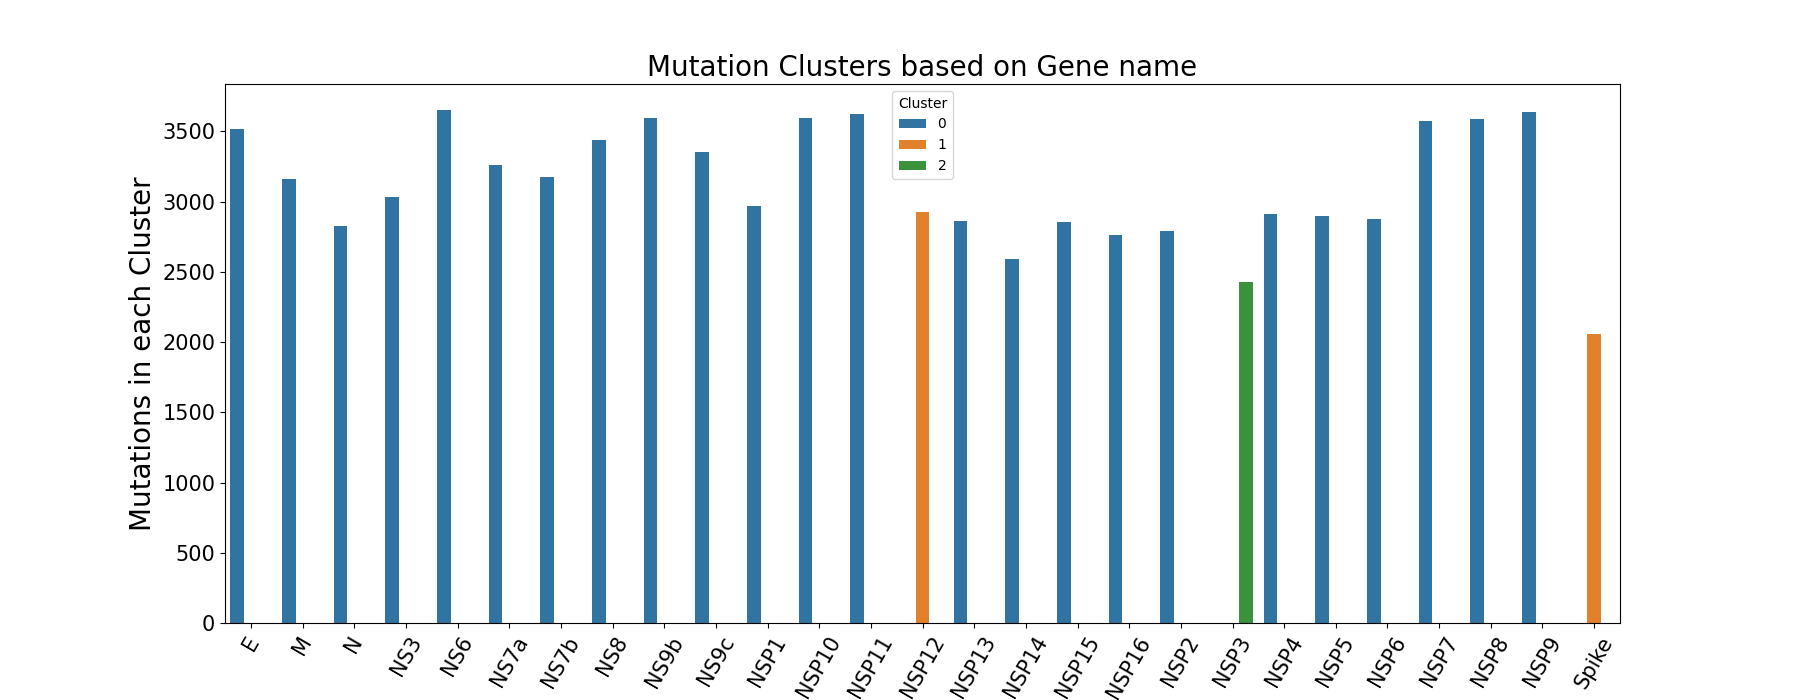
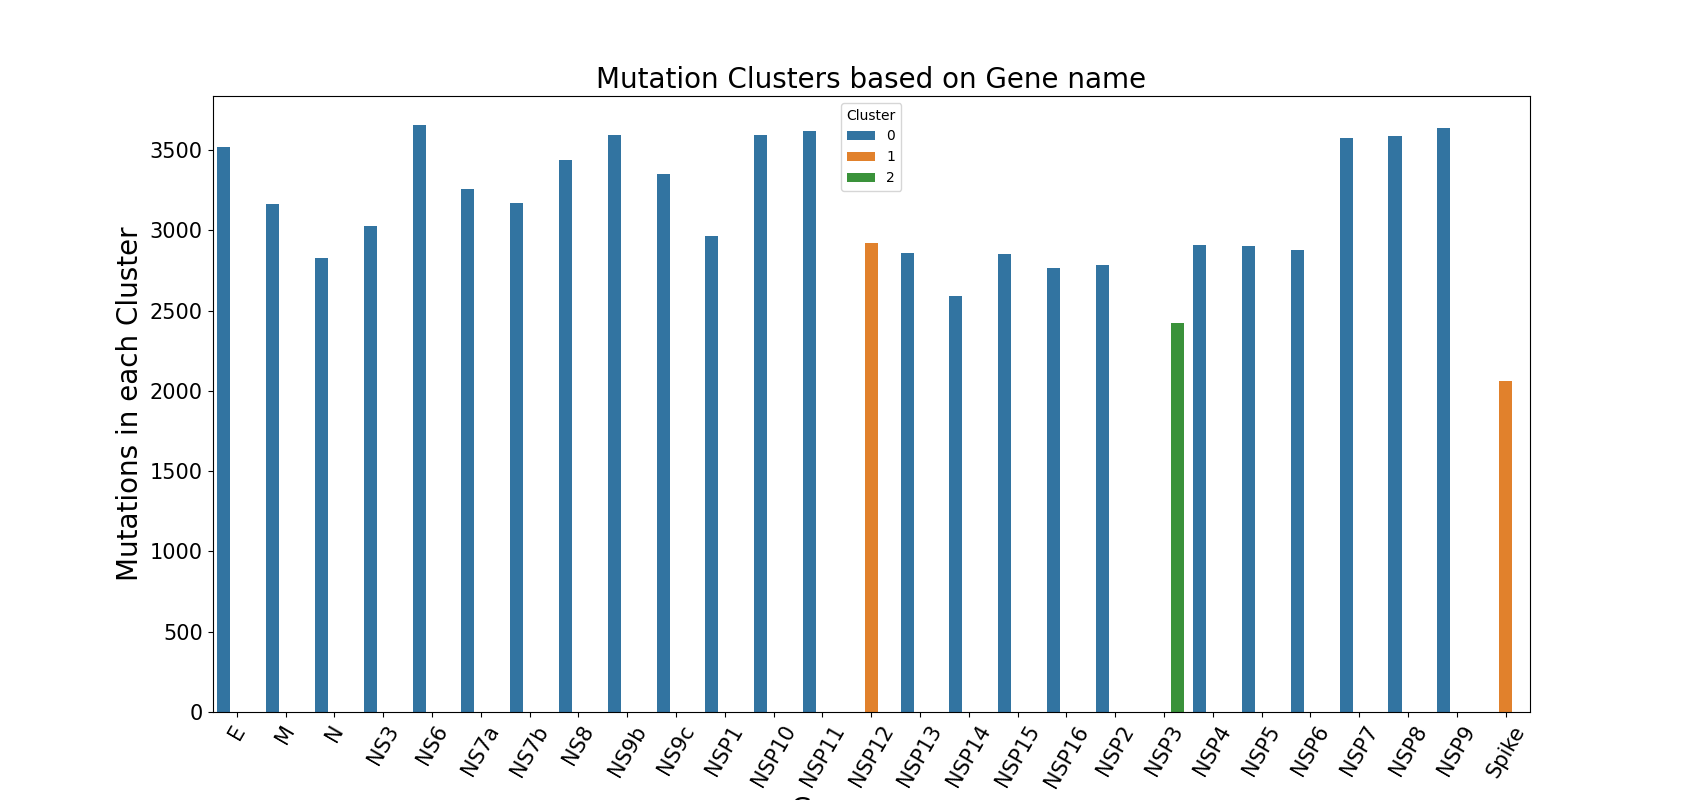
UI Updated

diff --git a/Application/Test.py b/Application/Test.py
@@ -5,7 +5,7 @@ import numpy as np
 import matplotlib.pyplot as plt
 from matplotlib.backends.backend_tkagg import FigureCanvasTkAgg
 from sklearn.cluster import KMeans
-import pandas as pds
+import pandas as pd
 from sklearn.preprocessing import MinMaxScaler
 from matplotlib import pyplot as plt
 from sklearn.preprocessing import LabelEncoder
@@ -83,7 +83,7 @@ def win_Plots():
     layout = [[
         sg.Frame(layout=[[sg.Button("PREDICTED DATA", size=(15, 2))],
                          [sg.Button("CLUSTERED DATA", size=(15, 2))],[sg.Button("DATA ANALYSIS", size=(15, 2))],
-                         [sg.Button("COMMUNITY", size=(15, 2))],[sg.Button("ABOUT", size=(15, 2))],[sg.Button('EXIT',size=(15, 2))]],title="Plots",relief=sg.RELIEF_GROOVE)]]
+                         [sg.Button("ABOUT", size=(15, 2))],[sg.Button('EXIT',size=(15, 2))]],title="Plots",relief=sg.RELIEF_GROOVE)]]
     window = sg.Window('Genetrix', layout, margins=(100, 50))
     while True:
         event, values = window.Read()
@@ -118,7 +118,7 @@ def win_Plots():
                                element_justification='center', font='Monospace 18')
 
             # Create a fig for embedding.
-            fig = plt.figure(figsize=(6, 5))
+            fig = plt.figure(figsize=(10, 5))
             ax = fig.add_subplot(111)
             fig_agg = draw_figure(window['-CANVAS-'].TKCanvas, fig)
             # Event loop
@@ -136,17 +136,13 @@ def win_Plots():
                     print(df.head())
                     le = LabelEncoder()
                     df["Isolate ID"] = le.fit_transform(df["Isolate ID"])
-                    # df["DNAENC"] = le.fit_transform(df["DNAENC"])
                     plt.scatter(df['Isolate ID'], df.DNAENC)
                     plt.xlabel('Isolate ID')
                     plt.ylabel('DNAENC')
-                    # plt.show()
 
                     km = KMeans(n_clusters=3)
                     y_predicted = km.fit_predict(df[['Isolate ID', 'DNAENC']])
-                    y_predicted
                     df['cluster'] = y_predicted
-                    km.cluster_centers_
                     df1 = df[df.cluster == 0]
                     df2 = df[df.cluster == 1]
                     df3 = df[df.cluster == 2]
@@ -177,8 +173,6 @@ def win_Plots():
             win_Analysis()
         elif event == "PREDICTED DATA":
             sg.Popup('PREDICTED DATA page')
-        elif event == "COMMUNITY":
-            sg.Popup('COMMUNITY page')
         elif event == "ABOUT":
             filename = 'hello.txt'
             if Path(filename).is_file():
@@ -258,20 +252,16 @@ def win_Analysis():
                     location = pd.DataFrame(location)
                     location = pd.DataFrame(location.value_counts().sort_index()).reset_index()
                     location.columns = ["Location", "Total Cases"]
-                    location
                     len(df_v.index)
 
                     sns.set_style("whitegrid")
-                    plt.figure(figsize=(18, 7))
                     sns.barplot(x="Location", y="Total Cases", data=location)
                     plt.title("Number of Mutations based on Location", size=20)
                     plt.xlabel("Location", size=20)
                     plt.ylabel("Number of Mutations", size=20)
-                    plt.xticks(size=15, rotation=60)
+                    plt.xticks(size=10, rotation=45)
                     plt.yticks(size=15)
-                    #plt.xticks(rotation = -45)
                     plt.savefig("raby.png")
-                    plt.show()
                     fig_agg.draw()
 
                 elif event == "Clear":
@@ -304,7 +294,7 @@ def win_Analysis():
 
             # Layout creation
             layout = [[sg.Text('CLUSTERPLOT of SARS-CoV-2 mutations')],
-                      [sg.Text("Choose a file: "), sg.FileBrowse(key="-IN-", button_text='Import Dataset')],
+                      [sg.Text("Choose a file: "), sg.FileBrowse(key="-IN-", button_text='Import Dataset 1')],
                       [sg.Text("Choose a file: "), sg.FileBrowse(key="-IN2-", button_text='Import Dataset 2')],
                       [sg.Canvas(key='-CANVAS-')],
                       [sg.Button("Plot"), sg.Button("Clear"), sg.Button("Back")]]
@@ -338,26 +328,21 @@ def win_Analysis():
                     location = pd.DataFrame(location)
                     location = pd.DataFrame(location.value_counts().sort_index()).reset_index()
                     location.columns = ["Location", "Total Cases"]
-                    location
 
                     len(df_v.index)
                     cluster = df["Cluster"]
                     cluster = pd.DataFrame(cluster)
                     cluster = pd.DataFrame(cluster.value_counts().sort_index()).reset_index()
                     cluster.columns = ["Cluster", "Count"]
-                    cluster
 
                     sns.set_style("whitegrid")
-                    plt.figure(figsize=(18, 7))
                     sns.barplot(x="Cluster", y="Count", data=cluster)
                     plt.title("Clusters", size=20)
                     plt.xlabel("Clusters", size=20)
                     plt.ylabel("Count", size=20)
                     plt.xticks(size=15, rotation=0)
                     plt.yticks(size=15)
-                    # plt.xticks(rotation = -45)
                     plt.savefig("raby.png")
-                    plt.show()
                     fig_agg.draw()
 
 
@@ -392,7 +377,7 @@ def win_Analysis():
 
             # Layout creation
             layout = [[sg.Text('CLUSTERS BASED ON LOCATIONS of SARS-CoV-2 mutations')],
-                      [sg.Text("Choose a file: "), sg.FileBrowse(key="-IN-", button_text='Import Dataset')],
+                      [sg.Text("Choose a file: "), sg.FileBrowse(key="-IN-", button_text='Import Dataset 1')],
                       [sg.Text("Choose a file: "), sg.FileBrowse(key="-IN2-", button_text='Import Dataset 2')],
                       [sg.Canvas(key='-CANVAS-')],
                       [sg.Button("Plot"), sg.Button("Clear"), sg.Button("Back")]]
@@ -426,14 +411,12 @@ def win_Analysis():
                     location = pd.DataFrame(location)
                     location = pd.DataFrame(location.value_counts().sort_index()).reset_index()
                     location.columns = ["Location", "Total Cases"]
-                    location
 
                     len(df_v.index)
                     cluster = df["Cluster"]
                     cluster = pd.DataFrame(cluster)
                     cluster = pd.DataFrame(cluster.value_counts().sort_index()).reset_index()
                     cluster.columns = ["Cluster", "Count"]
-                    cluster
 
                     clus = df[(df["Cluster"] == 0) |
                               (df["Cluster"] == 1) |
@@ -441,16 +424,13 @@ def win_Analysis():
                               (df["Cluster"] == 3)]
                     clus.head(2)
                     location_and_cluster = clus.groupby(["Location", "Cluster"])["Cluster"].agg(["count"]).reset_index()
-                    location_and_cluster
-                    plt.figure(figsize=(18, 7))
                     sns.barplot(x="Location", y="count", hue="Cluster", data=location_and_cluster)
                     plt.title("Mutations and Clusters based on location", size=20)
                     plt.xlabel("Location", size=20)
                     plt.ylabel("Mutations in each Cluster", size=20)
-                    plt.xticks(size=15, rotation=90)
+                    plt.xticks(size=9, rotation=45)
                     plt.yticks(size=15)
                     plt.savefig("mah.png")
-                    plt.show()
                     fig_agg.draw()
 
                 elif event == "Clear":
@@ -483,7 +463,7 @@ def win_Analysis():
 
             # Layout creation
             layout = [[sg.Text('CLUSTERS BASED ON GENE NAME of SARS-CoV-2 mutations')],
-                      [sg.Text("Choose a file: "), sg.FileBrowse(key="-IN-", button_text='Import Dataset')],
+                      [sg.Text("Choose a file: "), sg.FileBrowse(key="-IN-", button_text='Import Dataset 1')],
                       [sg.Text("Choose a file: "), sg.FileBrowse(key="-IN2-", button_text='Import Dataset 2')],
                       [sg.Canvas(key='-CANVAS-')],
                       [sg.Button("Plot"), sg.Button("Clear"), sg.Button("Back")]]
@@ -517,14 +497,12 @@ def win_Analysis():
                     location = pd.DataFrame(location)
                     location = pd.DataFrame(location.value_counts().sort_index()).reset_index()
                     location.columns = ["Location", "Total Cases"]
-                    location
 
                     len(df_v.index)
                     cluster = df["Cluster"]
                     cluster = pd.DataFrame(cluster)
                     cluster = pd.DataFrame(cluster.value_counts().sort_index()).reset_index()
                     cluster.columns = ["Cluster", "Count"]
-                    cluster
 
                     clus = df[(df["Cluster"] == 0) |
                               (df["Cluster"] == 1) |
@@ -532,8 +510,6 @@ def win_Analysis():
                               (df["Cluster"] == 3)]
                     clus.head(2)
                     genename_and_cluster = clus.groupby(["Gene name", "Cluster"])["Cluster"].agg(["count"]).reset_index()
-                    genename_and_cluster
-                    plt.figure(figsize=(18, 7))
                     sns.barplot(x="Gene name", y="count", hue="Cluster", data=genename_and_cluster)
                     plt.title("Mutation Clusters based on Gene name", size=20)
                     plt.xlabel("Gene name", size=20)
@@ -541,7 +517,6 @@ def win_Analysis():
                     plt.xticks(size=15, rotation=60)
                     plt.yticks(size=15)
                     plt.savefig("mah.png")
-                    plt.show()
                     fig_agg.draw()
 
                 elif event == "Back":
